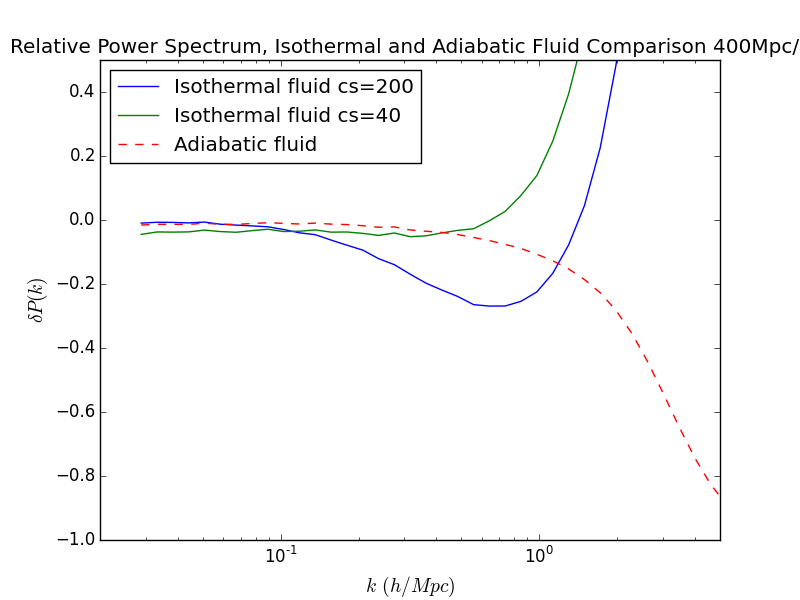
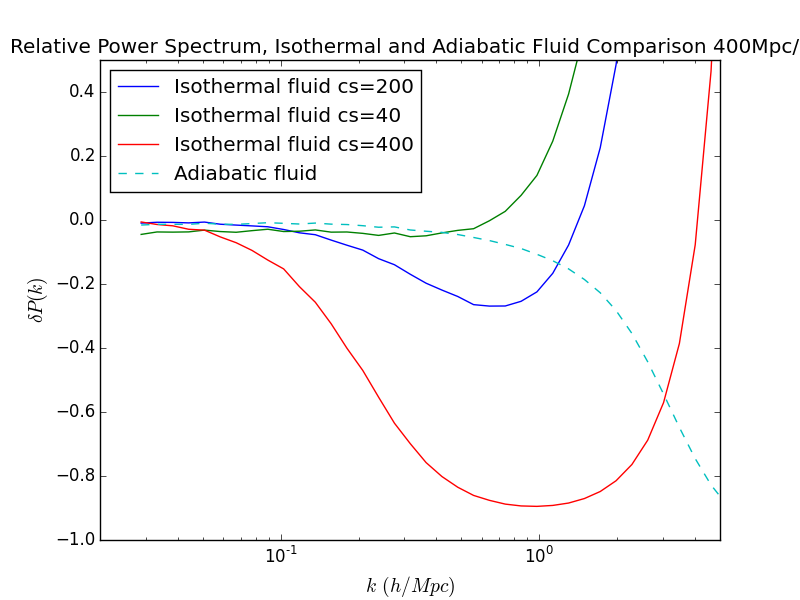
Added 400km/s case.

diff --git a/plots/isothermal/isothermal_fluid_low_adiabatic_normalized_particle_b400.py b/plots/isothermal/isothermal_fluid_low_adiabatic_normalized_particle_b400.py
@@ -21,7 +21,7 @@ for simtype in simtypes:
     for filename in filenames:
         if 'isothermal' in filename:
             isothermal = isothermalpattern.findall(filename)[0]
-            if int(isothermal) < 300:
+            if int(isothermal) <= 400:
                 n = npattern.findall(filename)[0]
                 kvalues, ps = np.loadtxt(result_dir+filename, unpack=True)
                 ps = (ps - ps_base)/ps_base
